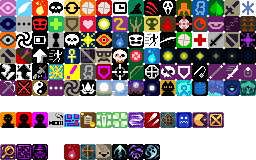
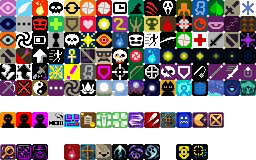
v0.9.5.0：求救信号套组buff贴图完善

Changed region(s): [[0.6875, 0.875, 0.8125, 1.0]]

diff --git a/core/src/main/java/com/shatteredpixel/shatteredpixeldungeon/items/thanks/HuntingCarnival.java b/core/src/main/java/com/shatteredpixel/shatteredpixeldungeon/items/thanks/HuntingCarnival.java
@@ -51,7 +51,8 @@ public class HuntingCarnival extends Buff {
             if (timers[i] <= 0) {
                 // 找敌人发射各个类型的箭
                 Char enemy = chooseRandomEnemy();
-                if (enemy != null) {
+                if (enemy != null)
+                    Buff.affect(enemy,Paralysis.class,100f);{
                     performShot(i, enemy);
                     timers[i] = cooldowns[i];
                 }
@@ -145,19 +146,20 @@ public class HuntingCarnival extends Buff {
 
         MissileSprite missile = new MissileSprite();
         GameScene.scene.add(missile);
-        Buff.affect(enemy,Paralysis.class,100f);
-        missile.reset(
-                0,
-                enemy.sprite,
-                missileItem,
-                new Callback() {
-                    @Override
-                    public void call() {
-                        damageLogic.run();
-                        Dungeon.hero.sprite.idle();
+        if(enemy != null){
+            missile.reset(
+                    0,
+                    enemy.sprite,
+                    missileItem,
+                    new Callback() {
+                        @Override
+                        public void call() {
+                            damageLogic.run();
+                        }
                     }
-                }
-        );
+            );
+        }
+
     }
 
     private int frostDamage(int depth) {
@@ -183,7 +185,7 @@ public class HuntingCarnival extends Buff {
 
     @Override
     public int icon() {
-        return BuffIndicator.HALOMETHANEBURNING;
+        return BuffIndicator.ARROW_PARTY;
     }
 
     @Override

diff --git a/core/src/main/java/com/shatteredpixel/shatteredpixeldungeon/items/thanks/SniperSupport.java b/core/src/main/java/com/shatteredpixel/shatteredpixeldungeon/items/thanks/SniperSupport.java
@@ -75,6 +75,7 @@ public class SniperSupport extends Buff {
         // 延迟为0，尝试执行狙击
         Char enemy = chooseRandomEnemy();
         if (enemy != null) {
+            Buff.affect(enemy,Paralysis.class,100f);
             performSnipe(enemy);
             triggersLeft--;
             delay = interval;
@@ -158,14 +159,12 @@ public class SniperSupport extends Buff {
 
         MissileSprite missile = new MissileSprite();
         GameScene.scene.add(missile);
-        Buff.affect(enemy,Paralysis.class,100f);
         missile.reset(
                 0,
                 enemy.sprite,
                 missileItem,
                 () -> {
                     damageLogic.run();
-                    Dungeon.hero.sprite.idle();
                 }
         );
     }
@@ -202,7 +201,7 @@ public class SniperSupport extends Buff {
         );
     }
     @Override
-    public int icon() {return BuffIndicator.HALOMETHANEBURNING;}
+    public int icon() {return BuffIndicator.ARROW_NORMAL;}
 
     @Override
     public float iconFadePercent() {

diff --git a/core/src/main/java/com/shatteredpixel/shatteredpixeldungeon/ui/BuffIndicator.java b/core/src/main/java/com/shatteredpixel/shatteredpixeldungeon/ui/BuffIndicator.java
@@ -169,6 +169,9 @@ public class BuffIndicator extends Component {
 	public static final int DEAD_GAS = 152;
 	public static final int LOST_SOUL = 153;
 
+	public static final int ARROW_NORMAL = 155;
+	public static final int ARROW_PARTY = 156;
+
 	public static final int SIZE_SMALL = 7;
 	public static final int SIZE_LARGE = 16;
 	private static BuffIndicator bossInstance;

diff --git a/core/src/main/java/com/shatteredpixel/shatteredpixeldungeon/items/thanks/FlareBullet.java b/core/src/main/java/com/shatteredpixel/shatteredpixeldungeon/items/thanks/FlareBullet.java
@@ -66,6 +66,7 @@ public class FlareBullet extends Item {
                 quantity(quantity() - 1);
             }
             // 增加套组充能（使用公共方法）
+            Item.updateQuickslot();
             signal.addCharge(1);
             GLog.p(Messages.get(this, "load_success"));
             hero.spend(1f);
